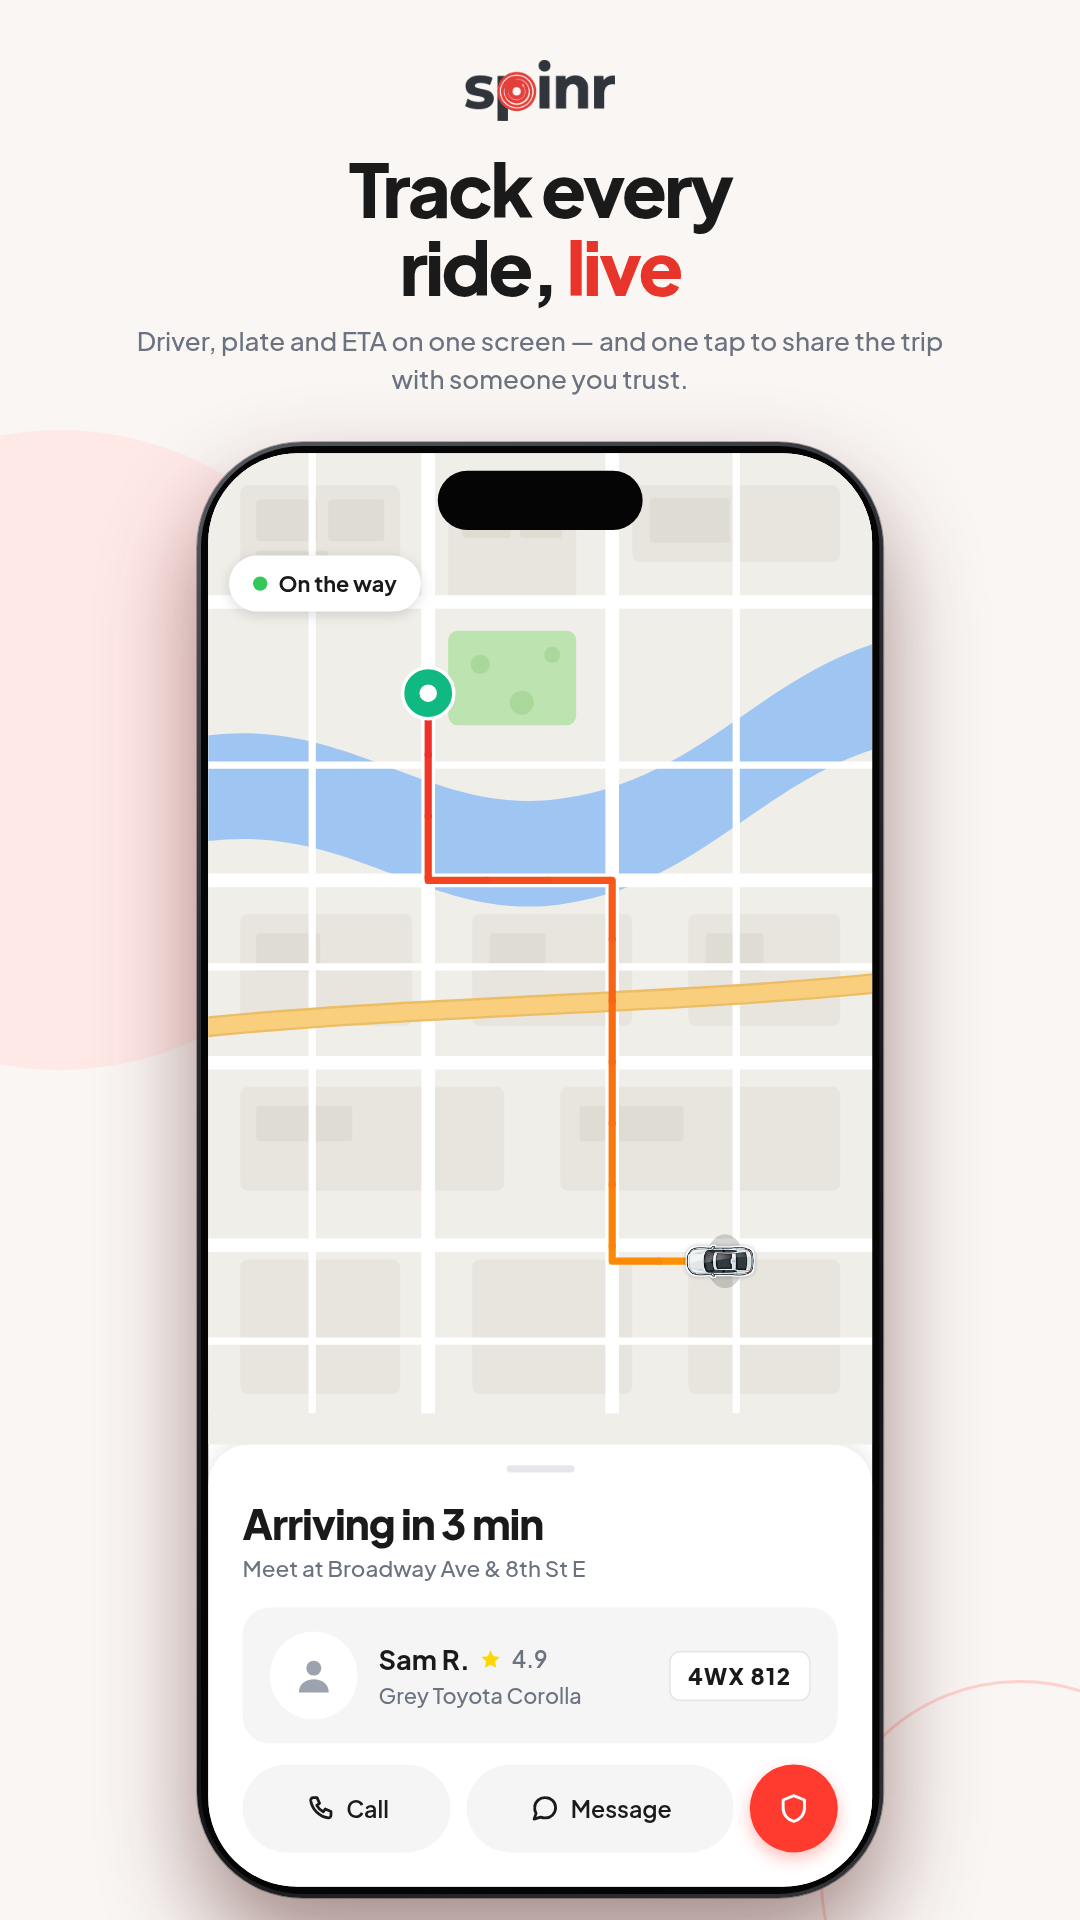
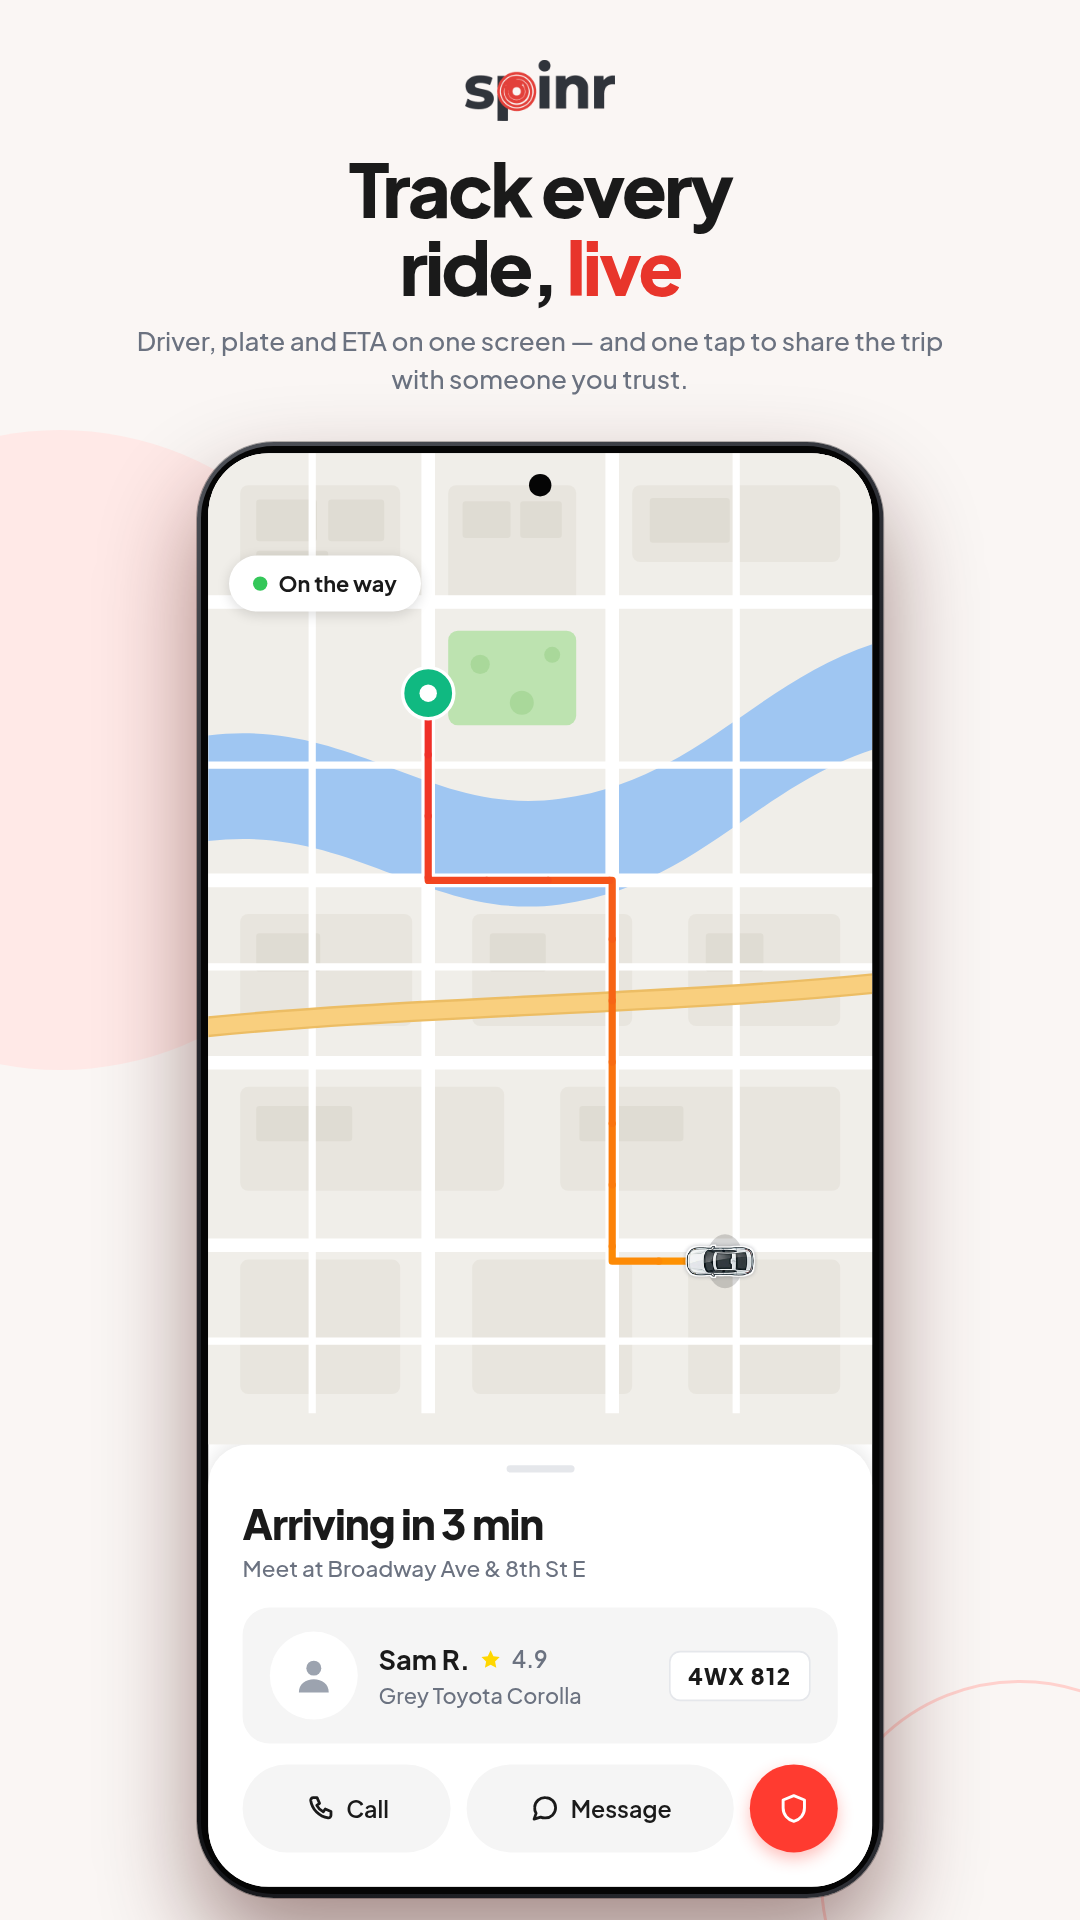
fix(design): Android device frame for the Google Play set
The Play screenshots were showing an iPhone (Dynamic Island and all) — a
platform mismatch on an Android listing. _build.py gains android(): the
same device geometry with a cooler aluminum rim, squarer 96px corners and
a centred punch-hole camera instead of the island. _play.py now renders
all six Play frames on it; the App Store set keeps the iPhone frame.

Co-developed with Claude Code (claude-sonnet-5)

Claude-Session: https://claude.ai/code/session_01RAfSoFR6nXebZH6nfqRpkU

diff --git a/design/app-store-screenshots/Play05.dc.html b/design/app-store-screenshots/Play05.dc.html
@@ -19,9 +19,9 @@
 <div style="position: absolute; top: 430px; right: -260px; width: 640px; height: 640px; border-radius: 320px; background: #FFE9E7; z-index: 0;"></div><div style="position: absolute; bottom: -160px; left: -140px; width: 400px; height: 400px; border-radius: 200px; border: 3px solid #FFD1CD; z-index: 0;"></div>
   <div style="position: absolute; left: 197px; top: 442px; width: 686px; height: 1456px; transform: rotate(0deg); z-index: 3;">
     <div style="width: 858px; height: 1820px; transform: scale(0.8); transform-origin: top left;">
-      <div style="width: 858px; height: 1820px; border-radius: 132px; padding: 5px; background: linear-gradient(150deg, #55585F 0%, #2B2D33 28%, #101114 70%, #33353B 100%); box-shadow: 0 60px 120px rgba(60,8,4,0.45), 0 0 0 1px rgba(0,0,0,0.35);">
-        <div style="width: 848px; height: 1810px; border-radius: 127px; background: #050505; padding: 9px;">
-          <div style="width: 830px; height: 1792px; border-radius: 112px; overflow: hidden; background: #FFFFFF; position: relative; display: flex; flex-direction: column;">
+      <div style="width: 858px; height: 1820px; border-radius: 96px; padding: 5px; background: linear-gradient(150deg, #4E5158 0%, #26282E 30%, #0E0F12 72%, #2E3036 100%); box-shadow: 0 60px 120px rgba(60,8,4,0.45), 0 0 0 1px rgba(0,0,0,0.35);">
+        <div style="width: 848px; height: 1810px; border-radius: 91px; background: #050505; padding: 9px;">
+          <div style="width: 830px; height: 1792px; border-radius: 76px; overflow: hidden; background: #FFFFFF; position: relative; display: flex; flex-direction: column;">
       <div style="flex-shrink: 0; display: flex; align-items: center; gap: 22px; padding: 150px 43px 26px;">
         <svg width="42" height="42" viewBox="0 0 24 24" fill="none" stroke="#1A1A1A" stroke-width="2.4" stroke-linecap="round" stroke-linejoin="round"><path d="M15 5l-7 7 7 7"></path></svg>
         <div style="display: flex; align-items: center; gap: 12px;">
@@ -54,7 +54,7 @@
           <svg width="44" height="44" viewBox="0 0 24 24" fill="none" stroke="#FFFFFF" stroke-width="2.6" stroke-linecap="round" stroke-linejoin="round"><path d="M12 19V5M5 12l7-7 7 7"></path></svg>
         </div>
       </div>
-            <div style="position: absolute; top: 22px; left: 287px; width: 256px; height: 74px; border-radius: 37px; background: #050505; z-index: 30;"></div>
+            <div style="position: absolute; top: 26px; left: 401px; width: 28px; height: 28px; border-radius: 14px; background: #050505; z-index: 30; box-shadow: 0 0 0 2px rgba(255,255,255,0.05);"></div>
           </div>
         </div>
       </div>

diff --git a/design/app-store-screenshots/Play03.dc.html b/design/app-store-screenshots/Play03.dc.html
@@ -19,9 +19,9 @@
 <div style="position: absolute; top: 430px; right: -260px; width: 640px; height: 640px; border-radius: 320px; background: #FFE9E7; z-index: 0;"></div><div style="position: absolute; bottom: -160px; left: -140px; width: 400px; height: 400px; border-radius: 200px; border: 3px solid #FFD1CD; z-index: 0;"></div>
   <div style="position: absolute; left: 197px; top: 442px; width: 686px; height: 1456px; transform: rotate(0deg); z-index: 3;">
     <div style="width: 858px; height: 1820px; transform: scale(0.8); transform-origin: top left;">
-      <div style="width: 858px; height: 1820px; border-radius: 132px; padding: 5px; background: linear-gradient(150deg, #55585F 0%, #2B2D33 28%, #101114 70%, #33353B 100%); box-shadow: 0 60px 120px rgba(60,8,4,0.45), 0 0 0 1px rgba(0,0,0,0.35);">
-        <div style="width: 848px; height: 1810px; border-radius: 127px; background: #050505; padding: 9px;">
-          <div style="width: 830px; height: 1792px; border-radius: 112px; overflow: hidden; background: #FFFFFF; position: relative; display: flex; flex-direction: column;">
+      <div style="width: 858px; height: 1820px; border-radius: 96px; padding: 5px; background: linear-gradient(150deg, #4E5158 0%, #26282E 30%, #0E0F12 72%, #2E3036 100%); box-shadow: 0 60px 120px rgba(60,8,4,0.45), 0 0 0 1px rgba(0,0,0,0.35);">
+        <div style="width: 848px; height: 1810px; border-radius: 91px; background: #050505; padding: 9px;">
+          <div style="width: 830px; height: 1792px; border-radius: 76px; overflow: hidden; background: #FFFFFF; position: relative; display: flex; flex-direction: column;">
       <div style="flex-shrink: 0; display: flex; align-items: center; gap: 26px; padding: 150px 43px 26px; background: #FFFFFF;">
         <div style="width: 90px; height: 90px; border-radius: 45px; background: #F5F5F5; display: flex; align-items: center; justify-content: center;">
           <svg width="42" height="42" viewBox="0 0 24 24" fill="none" stroke="#1A1A1A" stroke-width="2.4" stroke-linecap="round" stroke-linejoin="round"><path d="M15 5l-7 7 7 7"></path></svg>
@@ -106,7 +106,7 @@
         </div>
       </div>
 
-            <div style="position: absolute; top: 22px; left: 287px; width: 256px; height: 74px; border-radius: 37px; background: #050505; z-index: 30;"></div>
+            <div style="position: absolute; top: 26px; left: 401px; width: 28px; height: 28px; border-radius: 14px; background: #050505; z-index: 30; box-shadow: 0 0 0 2px rgba(255,255,255,0.05);"></div>
           </div>
         </div>
       </div>

diff --git a/design/app-store-screenshots/Play06.dc.html b/design/app-store-screenshots/Play06.dc.html
@@ -19,9 +19,9 @@
 <div style="position: absolute; top: 430px; left: -260px; width: 640px; height: 640px; border-radius: 320px; background: #FFE9E7; z-index: 0;"></div><div style="position: absolute; bottom: -160px; right: -140px; width: 400px; height: 400px; border-radius: 200px; border: 3px solid #FFD1CD; z-index: 0;"></div>
   <div style="position: absolute; left: 197px; top: 442px; width: 686px; height: 1456px; transform: rotate(0deg); z-index: 3;">
     <div style="width: 858px; height: 1820px; transform: scale(0.8); transform-origin: top left;">
-      <div style="width: 858px; height: 1820px; border-radius: 132px; padding: 5px; background: linear-gradient(150deg, #55585F 0%, #2B2D33 28%, #101114 70%, #33353B 100%); box-shadow: 0 60px 120px rgba(60,8,4,0.45), 0 0 0 1px rgba(0,0,0,0.35);">
-        <div style="width: 848px; height: 1810px; border-radius: 127px; background: #050505; padding: 9px;">
-          <div style="width: 830px; height: 1792px; border-radius: 112px; overflow: hidden; background: #FFFFFF; position: relative; display: flex; flex-direction: column;">
+      <div style="width: 858px; height: 1820px; border-radius: 96px; padding: 5px; background: linear-gradient(150deg, #4E5158 0%, #26282E 30%, #0E0F12 72%, #2E3036 100%); box-shadow: 0 60px 120px rgba(60,8,4,0.45), 0 0 0 1px rgba(0,0,0,0.35);">
+        <div style="width: 848px; height: 1810px; border-radius: 91px; background: #050505; padding: 9px;">
+          <div style="width: 830px; height: 1792px; border-radius: 76px; overflow: hidden; background: #FFFFFF; position: relative; display: flex; flex-direction: column;">
       <div style="flex-shrink: 0; display: flex; align-items: center; gap: 22px; padding: 150px 43px 26px;">
         <svg width="42" height="42" viewBox="0 0 24 24" fill="none" stroke="#1A1A1A" stroke-width="2.4" stroke-linecap="round" stroke-linejoin="round"><path d="M15 5l-7 7 7 7"></path></svg>
         <span style="font-size: 38px; font-weight: 600; color: #1A1A1A;">Help &amp; Support</span>
@@ -74,7 +74,7 @@
         </div>
       </div>
       <div style="flex-shrink: 0; height: 40px;"></div>
-            <div style="position: absolute; top: 22px; left: 287px; width: 256px; height: 74px; border-radius: 37px; background: #050505; z-index: 30;"></div>
+            <div style="position: absolute; top: 26px; left: 401px; width: 28px; height: 28px; border-radius: 14px; background: #050505; z-index: 30; box-shadow: 0 0 0 2px rgba(255,255,255,0.05);"></div>
           </div>
         </div>
       </div>

diff --git a/design/app-store-screenshots/Play02.dc.html b/design/app-store-screenshots/Play02.dc.html
@@ -19,9 +19,9 @@
 <div style="position: absolute; top: -200px; right: -240px; width: 700px; height: 700px; border-radius: 350px; background: rgba(255,255,255,0.06); z-index: 0;"></div><div style="position: absolute; bottom: -240px; left: -220px; width: 620px; height: 620px; border-radius: 310px; background: rgba(0,0,0,0.10); z-index: 0;"></div>
   <div style="position: absolute; left: -224px; top: 400px; width: 815px; height: 1729px; transform: rotate(-8deg); z-index: 3;">
     <div style="width: 858px; height: 1820px; transform: scale(0.95); transform-origin: top left;">
-      <div style="width: 858px; height: 1820px; border-radius: 132px; padding: 5px; background: linear-gradient(150deg, #55585F 0%, #2B2D33 28%, #101114 70%, #33353B 100%); box-shadow: 0 60px 120px rgba(60,8,4,0.45), 0 0 0 1px rgba(0,0,0,0.35);">
-        <div style="width: 848px; height: 1810px; border-radius: 127px; background: #050505; padding: 9px;">
-          <div style="width: 830px; height: 1792px; border-radius: 112px; overflow: hidden; background: #FFFFFF; position: relative; display: flex; flex-direction: column;">
+      <div style="width: 858px; height: 1820px; border-radius: 96px; padding: 5px; background: linear-gradient(150deg, #4E5158 0%, #26282E 30%, #0E0F12 72%, #2E3036 100%); box-shadow: 0 60px 120px rgba(60,8,4,0.45), 0 0 0 1px rgba(0,0,0,0.35);">
+        <div style="width: 848px; height: 1810px; border-radius: 91px; background: #050505; padding: 9px;">
+          <div style="width: 830px; height: 1792px; border-radius: 76px; overflow: hidden; background: #FFFFFF; position: relative; display: flex; flex-direction: column;">
       <div style="position: relative; flex-grow: 1; background: #F0EEE9;">
         <svg width="830" height="1160" viewBox="0 0 830 1160" style="position: absolute; inset: 0; display: block;">
 <rect width="830" height="1160" fill="#F0EEE9"/>
@@ -105,7 +105,7 @@
           </div>
         </div>
       </div>
-            <div style="position: absolute; top: 22px; left: 287px; width: 256px; height: 74px; border-radius: 37px; background: #050505; z-index: 30;"></div>
+            <div style="position: absolute; top: 26px; left: 401px; width: 28px; height: 28px; border-radius: 14px; background: #050505; z-index: 30; box-shadow: 0 0 0 2px rgba(255,255,255,0.05);"></div>
           </div>
         </div>
       </div>

diff --git a/design/app-store-screenshots/Play01.dc.html b/design/app-store-screenshots/Play01.dc.html
@@ -19,9 +19,9 @@
 <div style="position: absolute; top: -200px; right: -240px; width: 700px; height: 700px; border-radius: 350px; background: rgba(255,255,255,0.06); z-index: 0;"></div><div style="position: absolute; bottom: -240px; left: -220px; width: 620px; height: 620px; border-radius: 310px; background: rgba(0,0,0,0.10); z-index: 0;"></div>
   <div style="position: absolute; left: 878px; top: 400px; width: 815px; height: 1729px; transform: rotate(-8deg); z-index: 3;">
     <div style="width: 858px; height: 1820px; transform: scale(0.95); transform-origin: top left;">
-      <div style="width: 858px; height: 1820px; border-radius: 132px; padding: 5px; background: linear-gradient(150deg, #55585F 0%, #2B2D33 28%, #101114 70%, #33353B 100%); box-shadow: 0 60px 120px rgba(60,8,4,0.45), 0 0 0 1px rgba(0,0,0,0.35);">
-        <div style="width: 848px; height: 1810px; border-radius: 127px; background: #050505; padding: 9px;">
-          <div style="width: 830px; height: 1792px; border-radius: 112px; overflow: hidden; background: #FFFFFF; position: relative; display: flex; flex-direction: column;">
+      <div style="width: 858px; height: 1820px; border-radius: 96px; padding: 5px; background: linear-gradient(150deg, #4E5158 0%, #26282E 30%, #0E0F12 72%, #2E3036 100%); box-shadow: 0 60px 120px rgba(60,8,4,0.45), 0 0 0 1px rgba(0,0,0,0.35);">
+        <div style="width: 848px; height: 1810px; border-radius: 91px; background: #050505; padding: 9px;">
+          <div style="width: 830px; height: 1792px; border-radius: 76px; overflow: hidden; background: #FFFFFF; position: relative; display: flex; flex-direction: column;">
       <div style="position: relative; flex-grow: 1; background: #F0EEE9;">
         <svg width="830" height="1160" viewBox="0 0 830 1160" style="position: absolute; inset: 0; display: block;">
 <rect width="830" height="1160" fill="#F0EEE9"/>
@@ -105,7 +105,7 @@
           </div>
         </div>
       </div>
-            <div style="position: absolute; top: 22px; left: 287px; width: 256px; height: 74px; border-radius: 37px; background: #050505; z-index: 30;"></div>
+            <div style="position: absolute; top: 26px; left: 401px; width: 28px; height: 28px; border-radius: 14px; background: #050505; z-index: 30; box-shadow: 0 0 0 2px rgba(255,255,255,0.05);"></div>
           </div>
         </div>
       </div>

diff --git a/design/app-store-screenshots/Play04.dc.html b/design/app-store-screenshots/Play04.dc.html
@@ -19,9 +19,9 @@
 <div style="position: absolute; top: 430px; left: -260px; width: 640px; height: 640px; border-radius: 320px; background: #FFE9E7; z-index: 0;"></div><div style="position: absolute; bottom: -160px; right: -140px; width: 400px; height: 400px; border-radius: 200px; border: 3px solid #FFD1CD; z-index: 0;"></div>
   <div style="position: absolute; left: 197px; top: 442px; width: 686px; height: 1456px; transform: rotate(0deg); z-index: 3;">
     <div style="width: 858px; height: 1820px; transform: scale(0.8); transform-origin: top left;">
-      <div style="width: 858px; height: 1820px; border-radius: 132px; padding: 5px; background: linear-gradient(150deg, #55585F 0%, #2B2D33 28%, #101114 70%, #33353B 100%); box-shadow: 0 60px 120px rgba(60,8,4,0.45), 0 0 0 1px rgba(0,0,0,0.35);">
-        <div style="width: 848px; height: 1810px; border-radius: 127px; background: #050505; padding: 9px;">
-          <div style="width: 830px; height: 1792px; border-radius: 112px; overflow: hidden; background: #FFFFFF; position: relative; display: flex; flex-direction: column;">
+      <div style="width: 858px; height: 1820px; border-radius: 96px; padding: 5px; background: linear-gradient(150deg, #4E5158 0%, #26282E 30%, #0E0F12 72%, #2E3036 100%); box-shadow: 0 60px 120px rgba(60,8,4,0.45), 0 0 0 1px rgba(0,0,0,0.35);">
+        <div style="width: 848px; height: 1810px; border-radius: 91px; background: #050505; padding: 9px;">
+          <div style="width: 830px; height: 1792px; border-radius: 76px; overflow: hidden; background: #FFFFFF; position: relative; display: flex; flex-direction: column;">
       <div style="position: relative; flex-grow: 1; background: #F0EEE9;">
         <svg width="830" height="1200" viewBox="0 0 830 1200" style="position: absolute; inset: 0; display: block;">
 <rect width="830" height="1200" fill="#F0EEE9"/>
@@ -109,7 +109,7 @@
           </div>
         </div>
       </div>
-            <div style="position: absolute; top: 22px; left: 287px; width: 256px; height: 74px; border-radius: 37px; background: #050505; z-index: 30;"></div>
+            <div style="position: absolute; top: 26px; left: 401px; width: 28px; height: 28px; border-radius: 14px; background: #050505; z-index: 30; box-shadow: 0 0 0 2px rgba(255,255,255,0.05);"></div>
           </div>
         </div>
       </div>

diff --git a/design/app-store-screenshots/_play.py b/design/app-store-screenshots/_play.py
@@ -44,7 +44,7 @@ def decor_paper(corner):
 home = open('_screens/home.html').read()
 
 # ---- frames 1-2: the connected pair at Play size ----
-f1 = B.iphone(home, 878, 400, scale=0.95, rot=-8) + '''
+f1 = B.android(home, 878, 400, scale=0.95, rot=-8) + '''
   <div style="position: absolute; inset: 0; z-index: 4; padding: 66px 64px 92px; display: flex; flex-direction: column; pointer-events: none;">
     <img src="spinr-logo-white.png" alt="Spinr" style="width: 168px; height: 68px; object-fit: contain; align-self: flex-start;">
     <h1 style="margin: 60px 0 0; font-size: 126px; line-height: 1.0; font-weight: 800; letter-spacing: -0.045em; color: #FFFFFF;">Proudly<br><span style="color: #1A1A1A;">Canadian</span><br>rideshare.</h1>
@@ -58,7 +58,7 @@ f1 = B.iphone(home, 878, 400, scale=0.95, rot=-8) + '''
     </div>
   </div>'''
 
-f2 = B.iphone(home, -224, 400, scale=0.95, rot=-8) + '''
+f2 = B.android(home, -224, 400, scale=0.95, rot=-8) + '''
   <div style="position: absolute; right: 64px; top: 66px; z-index: 4;">
     <img src="spinr-logo-white.png" alt="Spinr" style="width: 196px; height: 80px; object-fit: contain;">
   </div>'''
@@ -68,7 +68,7 @@ def tpl_frame(fr, corner):
     screen = open(f"_screens/{fr['screen']}.html").read()
     logo = fr['logo']
     hcolor, scolor = fr['hcolor'], fr['scolor']
-    phone = B.iphone(screen, 197, 442, scale=0.80, rot=0)
+    phone = B.android(screen, 197, 442, scale=0.80, rot=0)
     return f'''{phone}
   <div style="position: relative; z-index: 2; display: flex; flex-direction: column; align-items: center; padding: 60px 64px 0; text-align: center;">
     <img src="{logo}" alt="Spinr" style="width: 150px; height: 61px; object-fit: contain;">

diff --git a/design/app-store-screenshots/_build.py b/design/app-store-screenshots/_build.py
@@ -165,6 +165,24 @@ def iphone(screen_html, left, top, scale=1.30, rot=-8):
     </div>
   </div>'''
 
+def android(screen_html, left, top, scale=1.30, rot=-8):
+    """Android device frame for the Google Play set: cooler aluminum rim,
+    smaller corner radius, centered punch-hole camera instead of an island."""
+    w = 858 * scale
+    h = 1820 * scale
+    return f'''  <div style="position: absolute; left: {left}px; top: {top}px; width: {w:.0f}px; height: {h:.0f}px; transform: rotate({rot}deg); z-index: 3;">
+    <div style="width: 858px; height: 1820px; transform: scale({scale}); transform-origin: top left;">
+      <div style="width: 858px; height: 1820px; border-radius: 96px; padding: 5px; background: linear-gradient(150deg, #4E5158 0%, #26282E 30%, #0E0F12 72%, #2E3036 100%); box-shadow: 0 60px 120px rgba(60,8,4,0.45), 0 0 0 1px rgba(0,0,0,0.35);">
+        <div style="width: 848px; height: 1810px; border-radius: 91px; background: #050505; padding: 9px;">
+          <div style="width: 830px; height: 1792px; border-radius: 76px; overflow: hidden; background: #FFFFFF; position: relative; display: flex; flex-direction: column;">
+{screen_html}
+            <div style="position: absolute; top: 26px; left: 401px; width: 28px; height: 28px; border-radius: 14px; background: #050505; z-index: 30; box-shadow: 0 0 0 2px rgba(255,255,255,0.05);"></div>
+          </div>
+        </div>
+      </div>
+    </div>
+  </div>'''
+
 PAIR_SHELL = '''<!doctype html>
 <html>
 <head>

diff --git a/design/app-store-screenshots/README.md b/design/app-store-screenshots/README.md
@@ -136,7 +136,9 @@ submitting.
 
 `_play.py` reflows the same six frames to **1080 × 1920** (9:16 — Play rejects
 anything taller than 2:1, so the 1290 × 2796 App Store images cannot be
-reused). It imports `_build.py` for the device, palette, leaf and frame copy;
+reused). It imports `_build.py` for the palette, leaf and frame copy, and renders on
+the **Android device frame** (`_build.android()` — centred punch-hole camera,
+squarer corners) rather than the iPhone frame used on the App Store set;
 floating chips are dropped at this size. Rendered PNGs: `png/spinr-play-*.png`.
 
 Store size requirements (2026):
